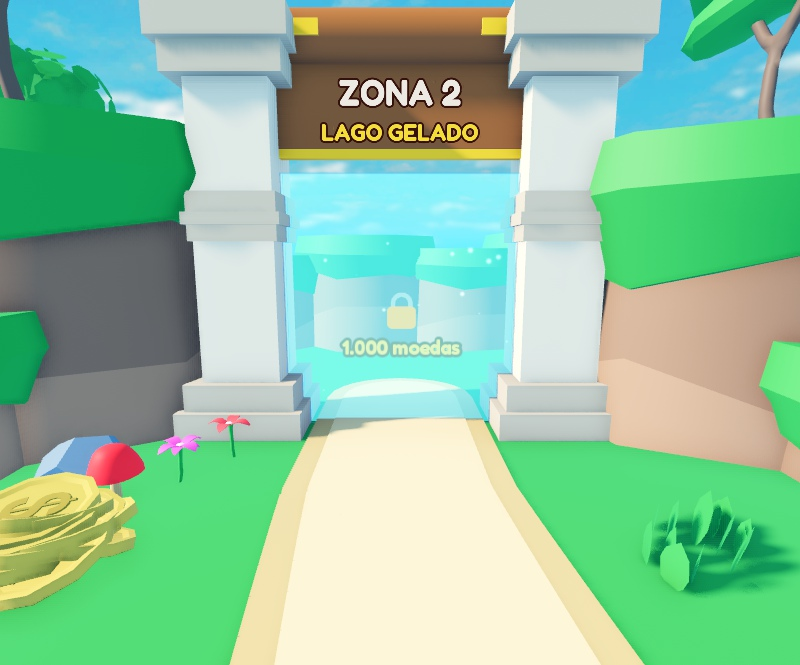
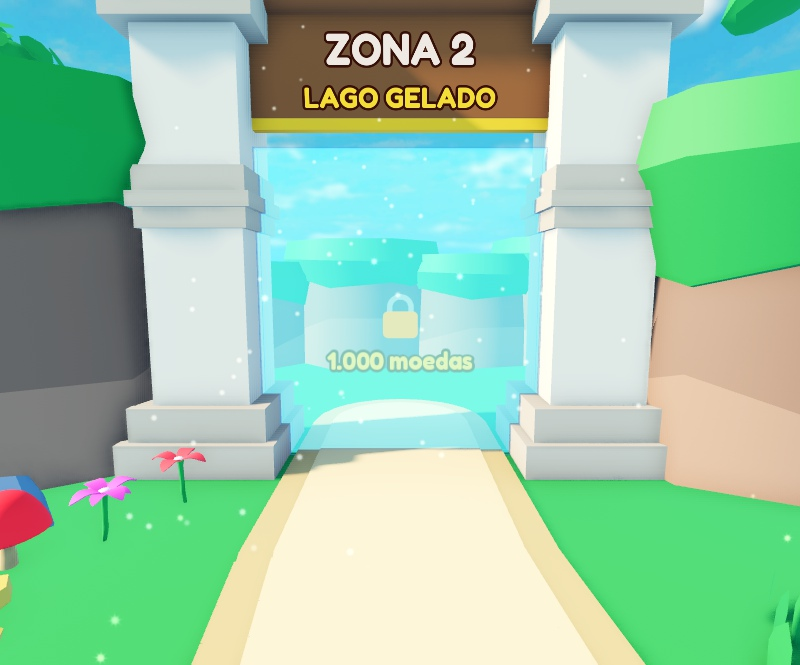
Map section: waterfall and gate VFX shots

diff --git a/portfolio-roblox.html b/portfolio-roblox.html
@@ -116,6 +116,7 @@ footer{padding:44px 0 70px;border-top:1px solid var(--line)}
     <li>26 breakables in 6 fields, kept clear of the path and the water</li>
     <li>Egg station on a raised platform with stairs, lanterns and price label</li>
     <li>Locked Zone 2 gate with barrier and unlock price, ready for a purchase script</li>
+    <li>VFX: layered waterfall with mist and rainbow, pollen, stream glints, coin sparkles, snow drifting from the Zone 2 gate</li>
     <li>70 reused meshes, no unions, free assets scanned for backdoors</li>
     <li>Scripted placement check: nothing floating, buried, overlapping or on the path</li>
   </ul>
@@ -124,8 +125,8 @@ footer{padding:44px 0 70px;border-top:1px solid var(--line)}
     <figure><img src="rbx-map-2.jpg" alt="View from the entrance gate down the curved path" loading="lazy"><figcaption>Entrance: path, egg and crystal landmark in one view</figcaption></figure>
     <figure><img src="rbx-map-3.jpg" alt="Wooden bridge over the stream" loading="lazy"><figcaption>Stream and bridge splitting the zone in two halves</figcaption></figure>
     <figure><img src="rbx-map-4.jpg" alt="Egg on a raised platform" loading="lazy"><figcaption>Egg station on a raised platform</figcaption></figure>
-    <figure><img src="rbx-map-5.jpg" alt="Locked Zone 2 gate" loading="lazy"><figcaption>Locked Zone 2 gate with unlock price</figcaption></figure>
-    <figure><img src="rbx-map-6.jpg" alt="Waterfall feeding the stream" loading="lazy"><figcaption>Waterfall feeding the stream from the cliff</figcaption></figure>
+    <figure><img src="rbx-map-5.jpg" alt="Locked Zone 2 gate" loading="lazy"><figcaption>Locked Zone 2 gate, snow drifting in from the next zone</figcaption></figure>
+    <figure><img src="rbx-map-6.jpg" alt="Waterfall with mist and a rainbow feeding the stream" loading="lazy"><figcaption>Waterfall VFX: flowing beams, foam, mist and rainbow</figcaption></figure>
   </div>
 </section>
 
